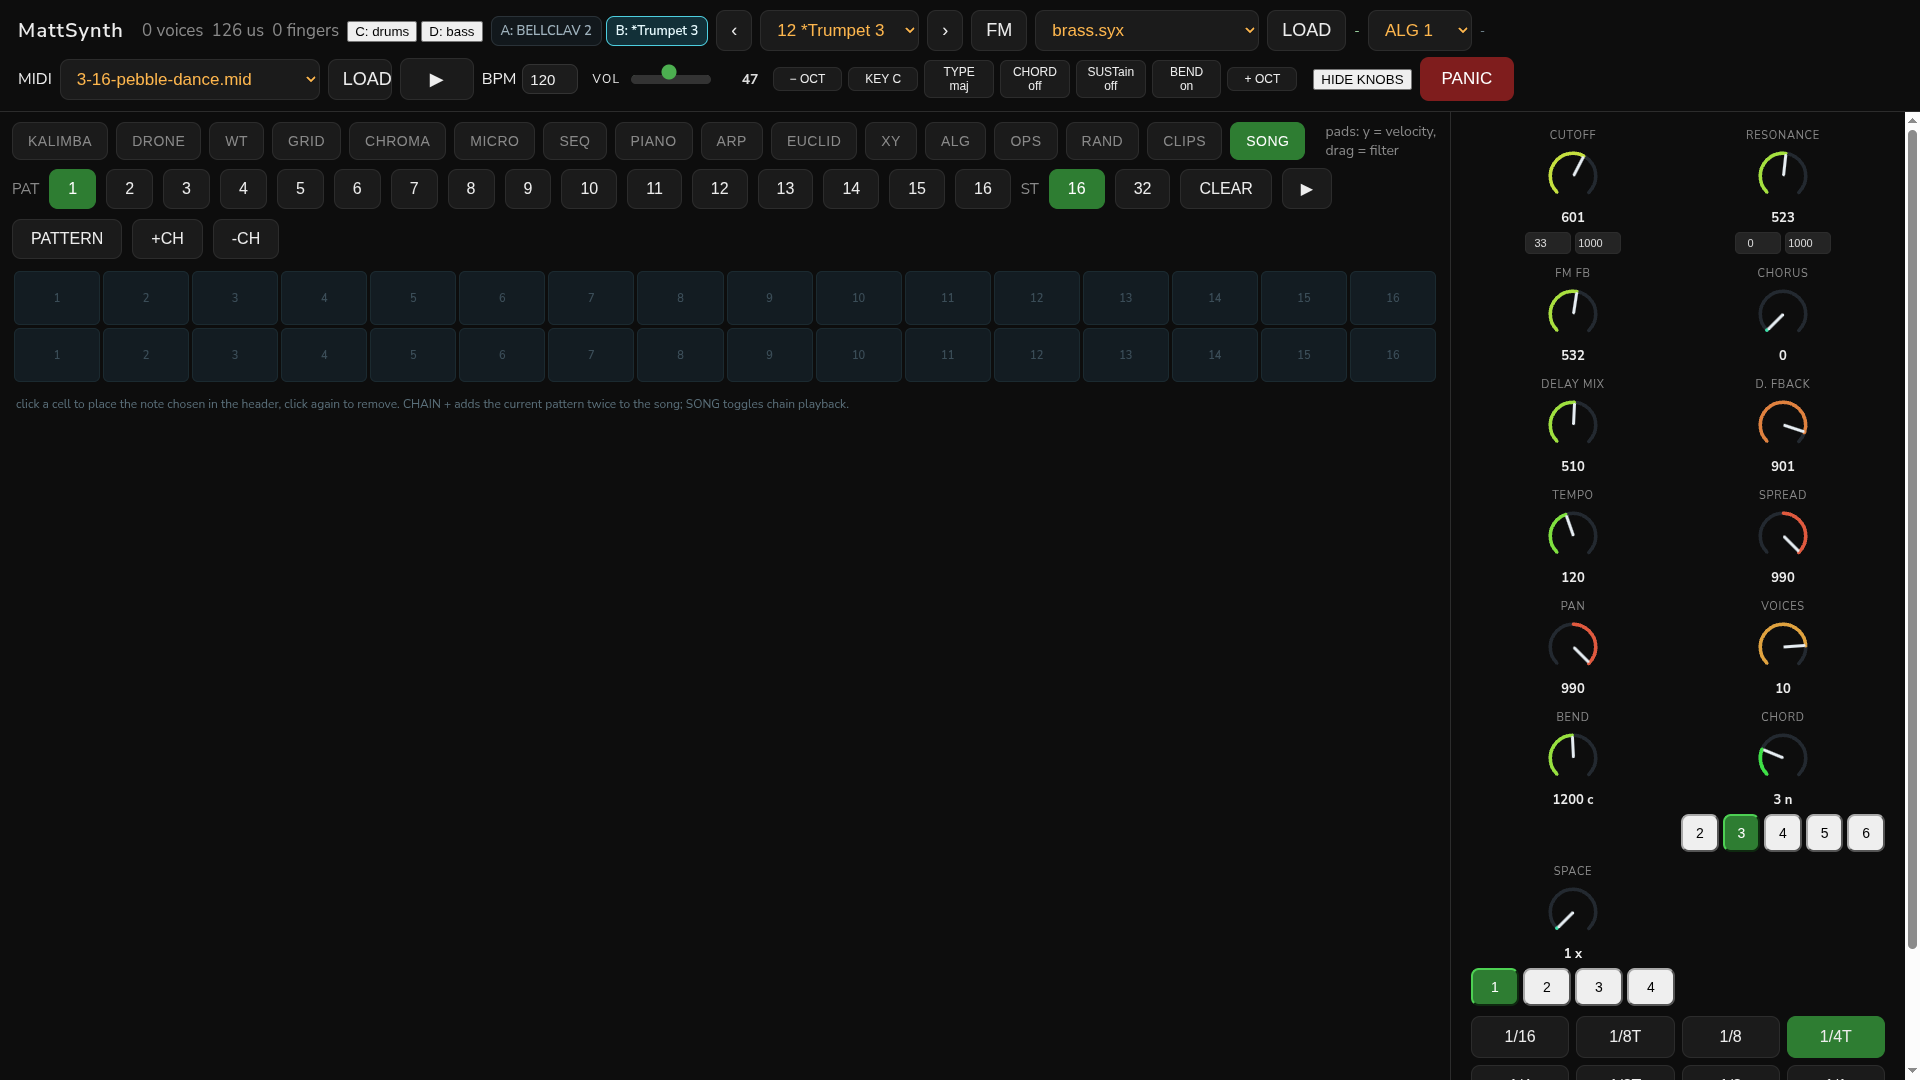
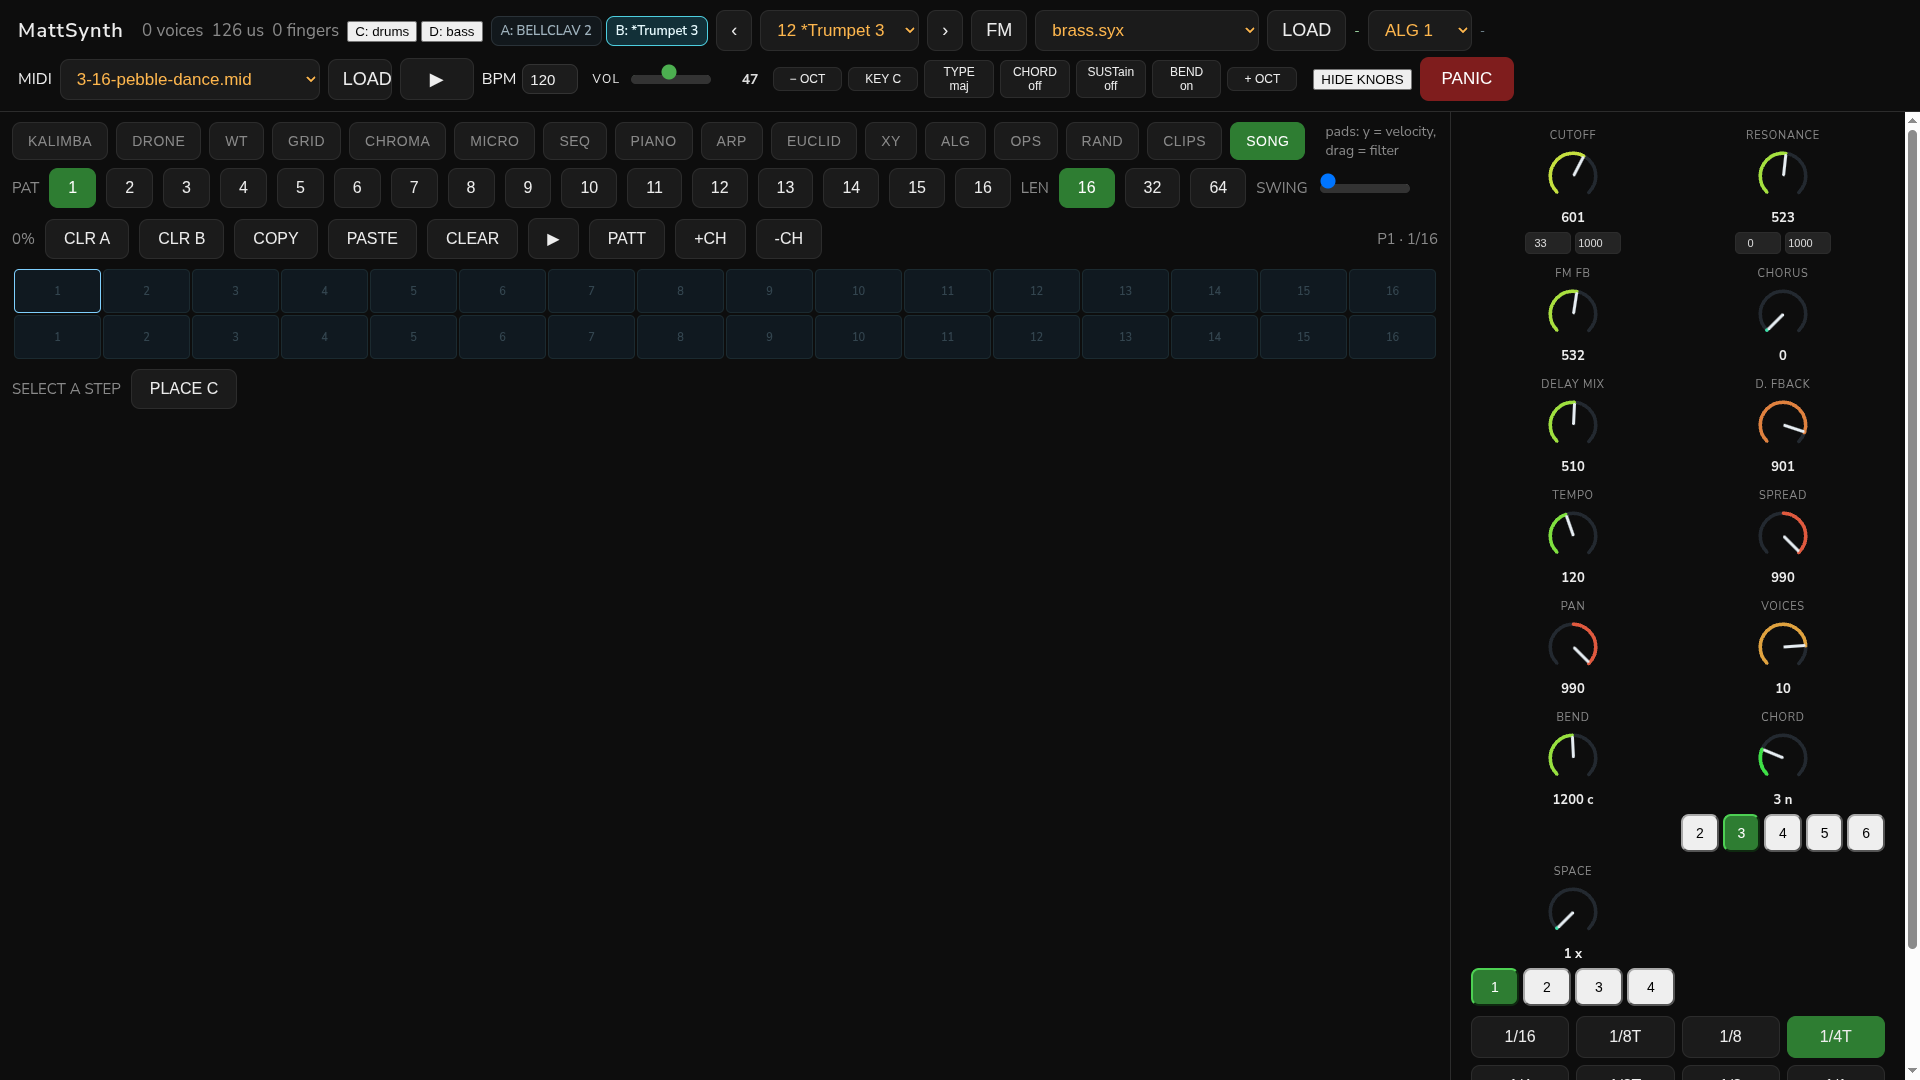
sequencer: step editing, swing, longer patterns, chain repeats and per part editing
A selected step gets its own editor: note up and down, velocity, length, delete. The
pattern can be 16, 32 or 64 sixteenths, carries a swing percentage that delays every
other step, and either part can be cleared or copied and pasted on its own. The chain
entries are clickable and their repeat count is adjustable, and the bar shows the
current pattern and step.

diff --git a/panel/panel_ui.py b/panel/panel_ui.py
@@ -4433,10 +4433,11 @@ function hexGrid(container){
    16 or 32 sixteenths per part, a song is a chain of patterns, and everything is sent
    with a 40 ms lookahead so a slow frame cannot make the groove limp. */
 const sq = { pats: [], cur: 0, song: [], songOn: false, playing: false,
-             step: 0, pat: 0, rep: 0, t0: 0, nxt: 0, timer: null, held: [] };
+             step: 0, pat: 0, rep: 0, t0: 0, nxt: 0, timer: null, held: [],
+             sel: { s: 0, part: 0 }, clip: null, chainSel: 0 };
 
 function sqPat(i){
-  while(sq.pats.length <= i) sq.pats.push({ len: 16, ev: [] });
+  while(sq.pats.length <= i) sq.pats.push({ len: 16, ev: [], swing: 0 });
   return sq.pats[i];
 }
 sqPat(0);
@@ -4477,7 +4478,9 @@ function sqTick(){
         }
       }
     }
-    sq.nxt += ms;
+    /* swing: push the off sixteenths late by the pattern's percentage */
+    const sw = (sqPat(p).swing || 0) / 100;
+    sq.nxt += ms + (sq.step % 2 ? 0 : sw * ms);
   }
   if(view === "song") paintSongPlayhead();
 }
@@ -4506,87 +4509,152 @@ function paintSongPlayhead(){
   });
 }
 
+function sqSelEv(){
+  const p = sqPat(sq.cur);
+  return p.ev.find(e=> e.s === sq.sel.s && (e.part || 0) === sq.sel.part) || null;
+}
+
 function buildSong(){
   const v = document.getElementById("view");
   v.innerHTML = "";
   const wrap = document.createElement("div");
-  wrap.id = "song"; wrap.style.cssText = "display:flex;flex-direction:column;gap:8px;flex:1 1 auto;min-height:0;";
-  const bar = document.createElement("div"); bar.className = "seqbar";
-  bar.style.flexWrap = "wrap";
-
+  wrap.id = "song";
+  wrap.style.cssText = "display:flex;flex-direction:column;gap:8px;flex:1 1 auto;min-height:0;";
+  const bar = document.createElement("div"); bar.className = "seqbar"; bar.style.flexWrap = "wrap";
   const lab = (t)=>{ const s = document.createElement("span"); s.className="lab"; s.textContent=t; return s; };
+  const btn = (t, on, fn)=>{ const b = document.createElement("button"); b.textContent = t;
+                             if(on) b.classList.add("on"); b.onclick = fn; bar.appendChild(b); return b; };
 
+  const pat = sqPat(sq.cur);
   bar.appendChild(lab("PAT"));
-  for(let i = 0; i < 16; i++){
-    const b = document.createElement("button");
-    b.textContent = String(i + 1);
-    if(i === sq.cur) b.classList.add("on");
-    b.onclick = ()=>{ sq.cur = i; buildSong(); };
+  for(let i2 = 0; i2 < 16; i2++){
+    const b = document.createElement("button"); b.textContent = String(i2 + 1);
+    if(i2 === sq.cur) b.classList.add("on");
+    b.onclick = ()=>{ sq.cur = i2; buildSong(); };
     bar.appendChild(b);
   }
-  bar.appendChild(lab("ST"));
-  [16, 32].forEach(n=>{
-    const b = document.createElement("button");
-    b.textContent = n;
-    if(sqPat(sq.cur).len === n) b.classList.add("on");
-    b.onclick = ()=>{ sqPat(sq.cur).len = n; buildSong(); saveState(); };
-    bar.appendChild(b);
+  bar.appendChild(lab("LEN"));
+  [16, 32, 64].forEach(n=>{
+    btn(String(n), pat.len === n, ()=>{ pat.len = n; if(sq.sel.s >= n) sq.sel.s = n - 1; buildSong(); saveState(); });
   });
-  const clr = document.createElement("button"); clr.textContent = "CLEAR";
-  clr.onclick = ()=>{ sqPat(sq.cur).ev = []; buildSong(); saveState(); };
-  bar.appendChild(clr);
+  bar.appendChild(lab("SWING"));
+  const sw = document.createElement("input");
+  sw.type = "range"; sw.min = 0; sw.max = 60; sw.step = 4; sw.value = pat.swing || 0;
+  sw.style.width = "90px"; sw.id = "sqswing";
+  const swl = document.createElement("span"); swl.className = "lab"; swl.textContent = (pat.swing || 0) + "%";
+  sw.oninput = ()=>{ pat.swing = +sw.value; swl.textContent = sw.value + "%"; };
+  sw.onchange = ()=> saveState();
+  bar.appendChild(sw); bar.appendChild(swl);
+
+  btn("CLR A", false, ()=>{ pat.ev = pat.ev.filter(e=> (e.part || 0) !== 0); buildSong(); saveState(); });
+  btn("CLR B", false, ()=>{ pat.ev = pat.ev.filter(e=> (e.part || 0) !== 1); buildSong(); saveState(); });
+  btn("COPY", false, ()=>{ sq.clip = pat.ev.filter(e=> (e.part || 0) === sq.sel.part).map(e=> Object.assign({}, e)); });
+  btn("PASTE", false, ()=>{
+    if(!sq.clip || !sq.clip.length) return;
+    pat.ev = pat.ev.filter(e=> (e.part || 0) !== sq.sel.part).concat(sq.clip.map(e=> Object.assign({}, e)));
+    buildSong(); saveState();
+  });
+  btn("CLEAR", false, ()=>{ pat.ev = []; buildSong(); saveState(); });
+
   const pl = document.createElement("button"); pl.id = "sqplay";
-  pl.textContent = sq.playing ? "■" : "▶";
-  if(sq.playing) pl.classList.add("on");
-  pl.onclick = ()=> sq.playing ? sqStop() : sqPlay();
-  bar.appendChild(pl);
-  const sm = document.createElement("button");
-  sm.textContent = sq.songOn ? "SONG" : "PATTERN";
-  if(sq.songOn) sm.classList.add("on");
-  else sm.classList.remove("on");
-  sm.onclick = ()=>{ sq.songOn = !sq.songOn; buildSong(); saveState(); };
-  bar.appendChild(sm);
-  const add = document.createElement("button"); add.textContent = "+CH";
-  add.onclick = ()=>{ sq.song.push({ p: sq.cur, r: 2 }); buildSong(); saveState(); };
-  bar.appendChild(add);
-  const pop = document.createElement("button"); pop.textContent = "-CH";
-  pop.onclick = ()=>{ sq.song.pop(); buildSong(); saveState(); };
-  bar.appendChild(pop);
-  bar.appendChild(lab(sq.song.map(e=> (e.p + 1) + "x" + (e.r || 1)).join(" ")));
+  pl.textContent = sq.playing ? "\u25a0" : "\u25b6"; if(sq.playing) pl.classList.add("on");
+  pl.onclick = ()=> sq.playing ? sqStop() : sqPlay(); bar.appendChild(pl);
+
+  btn(sq.songOn ? "SONG" : "PATT", sq.songOn, ()=>{ sq.songOn = !sq.songOn; buildSong(); saveState(); });
+  btn("+CH", false, ()=>{ sq.song.push({ p: sq.cur, r: 2 }); buildSong(); saveState(); });
+  btn("-CH", false, ()=>{ sq.song.pop(); buildSong(); saveState(); });
+  const pos = document.createElement("span"); pos.id = "sqpos"; pos.className = "lab";
+  pos.style.marginLeft = "auto";
+  pos.textContent = "P" + (sq.cur + 1) + " \u00b7 " + (sq.step + 1) + "/" + pat.len;
+  bar.appendChild(pos);
   wrap.appendChild(bar);
+
+  if(sq.song.length){
+    const ch = document.createElement("div"); ch.className = "seqbar"; ch.style.flexWrap = "wrap";
+    ch.appendChild(lab("CHAIN"));
+    sq.song.forEach((e, i3)=>{
+      const b = document.createElement("button"); b.textContent = (e.p + 1) + " x" + (e.r || 1);
+      if(i3 === sq.chainSel) b.classList.add("on");
+      b.onclick = ()=>{ sq.chainSel = i3; buildSong(); };
+      ch.appendChild(b);
+    });
+    ch.appendChild(lab("REPS"));
+    const dec = document.createElement("button"); dec.textContent = "\u2212";
+    dec.onclick = ()=>{ const e = sq.song[sq.chainSel]; if(e){ e.r = Math.max(1, (e.r || 1) - 1); buildSong(); saveState(); } };
+    ch.appendChild(dec);
+    const inc = document.createElement("button"); inc.textContent = "+";
+    inc.onclick = ()=>{ const e = sq.song[sq.chainSel]; if(e){ e.r = Math.min(16, (e.r || 1) + 1); buildSong(); saveState(); } };
+    ch.appendChild(inc);
+    wrap.appendChild(ch);
+  }
 
   const grid = document.createElement("div");
   grid.id = "sqgrid";
-  grid.style.cssText = "display:grid;grid-template-columns:repeat(16,1fr);gap:3px;padding:4px 2px;";
-  const len = sqPat(sq.cur).len;
+  grid.style.cssText = "display:grid;grid-template-columns:repeat(" + pat.len + ",1fr);gap:2px;padding:2px;";
   for(let part = 0; part < 2; part++){
-    for(let st = 0; st < len; st++){
+    for(let st = 0; st < pat.len; st++){
       const c = document.createElement("div");
+      const hit = pat.ev.find(e=> e.s === st && (e.part || 0) === part);
+      const sel = sq.sel.s === st && sq.sel.part === part;
       c.className = "sqc";
-      const hit = sqPat(sq.cur).ev.find(e=> e.s === st && (e.part || 0) === part);
       c.dataset.s = st; c.dataset.p = part;
-      c.style.cssText = "height:" + (part ? 54 : 54) + "px;border-radius:6px;display:flex;" +
-        "align-items:center;justify-content:center;font:600 11px system-ui;" +
-        "background:" + (hit ? (part ? "#1d4d3a" : "#2a3f63") : "#131c22") + ";" +
-        "color:" + (hit ? "#cfe9ff" : "#3b4d58") + ";border:1px solid #1b2a30;cursor:pointer;" +
-        "user-select:none;";
-      c.textContent = hit ? NOTE[hit.n % 12] + (hit.n < 60 ? "·" : "") : String(st + 1);
-      c.onclick = ()=>{
-        const p = sqPat(sq.cur);
-        const i = p.ev.findIndex(e=> e.s === st && (e.part || 0) === part);
-        if(i >= 0) p.ev.splice(i, 1);
-        else p.ev.push({ s: st, part: part, n: keySel, v: 100, len: 1 });
-        buildSong(); saveState();
-      };
+      c.style.cssText = "height:44px;border-radius:5px;display:flex;flex-direction:column;" +
+        "align-items:center;justify-content:center;font:600 11px system-ui;cursor:pointer;" +
+        "user-select:none;border:1px solid " + (sel ? "#7fd1ff" : "#1b2a30") + ";" +
+        "background:" + (hit ? (part ? "#1d4d3a" : "#26395c") : "#101920") + ";" +
+        "color:" + (hit ? "#e8f6ff" : "#33454f") + ";";
+      if(hit){
+        c.textContent = NOTE[hit.n % 12] + (Math.floor(hit.n / 12) - 1);
+        const sm = document.createElement("small");
+        sm.style.cssText = "font-size:9px;opacity:.75";
+        sm.textContent = (hit.v || 96) + "\u00b7" + (hit.len || 1);
+        c.appendChild(sm);
+      } else {
+        c.textContent = String(st + 1);
+      }
+      c.onclick = ()=>{ sq.sel = { s: st, part: part }; buildSong(); };
       grid.appendChild(c);
     }
   }
   wrap.appendChild(grid);
-  const hint = document.createElement("div");
-  hint.style.cssText = "color:#5a6f7a;font:12px system-ui;padding:2px 4px;";
-  hint.textContent = "click a cell to place the note chosen in the header, click again to remove. " +
-                     "CHAIN + adds the current pattern twice to the song; SONG toggles chain playback.";
-  wrap.appendChild(hint);
+
+  const ed = document.createElement("div"); ed.className = "seqbar"; ed.style.flexWrap = "wrap";
+  const ev = sqSelEv();
+  ed.appendChild(lab(ev ? "STEP " + (ev.s + 1) + (ev.part ? " B" : " A") : "SELECT A STEP"));
+  if(ev){
+    const nudge = (d)=>{ ev.n = Math.max(12, Math.min(120, ev.n + d)); buildSong(); saveState(); };
+    const nb = document.createElement("button"); nb.textContent = "\u2212"; nb.onclick = ()=> nudge(-1); ed.appendChild(nb);
+    const nl = document.createElement("span"); nl.className = "lab"; nl.style.minWidth = "52px";
+    nl.textContent = NOTE[ev.n % 12] + (Math.floor(ev.n / 12) - 1); ed.appendChild(nl);
+    const pb = document.createElement("button"); pb.textContent = "+"; pb.onclick = ()=> nudge(1); ed.appendChild(pb);
+
+    ed.appendChild(lab("VEL"));
+    const vel = document.createElement("input"); vel.type = "range"; vel.min = 20; vel.max = 127;
+    vel.value = ev.v || 96; vel.style.width = "120px";
+    vel.oninput = ()=>{ ev.v = +vel.value; };
+    vel.onchange = ()=> saveState();
+    ed.appendChild(vel);
+
+    ed.appendChild(lab("LEN"));
+    const ld = document.createElement("button"); ld.textContent = "\u2212";
+    ld.onclick = ()=>{ ev.len = Math.max(1, (ev.len || 1) - 1); buildSong(); saveState(); }; ed.appendChild(ld);
+    const lv = document.createElement("span"); lv.className = "lab"; lv.style.minWidth = "24px";
+    lv.textContent = ev.len || 1; ed.appendChild(lv);
+    const li = document.createElement("button"); li.textContent = "+";
+    li.onclick = ()=>{ ev.len = Math.min(16, (ev.len || 1) + 1); buildSong(); saveState(); }; ed.appendChild(li);
+
+    const del = document.createElement("button"); del.textContent = "DEL";
+    del.onclick = ()=>{ const p2 = sqPat(sq.cur); p2.ev = p2.ev.filter(e=> e !== ev); buildSong(); saveState(); };
+    ed.appendChild(del);
+  } else {
+    const add = document.createElement("button"); add.textContent = "PLACE " + NOTE[keySel % 12];
+    /* the header key is a note class, so place it in the middle octave */
+    const pn = keySel < 12 ? 60 + (keySel | 0) : Math.max(24, Math.min(96, keySel));
+    add.onclick = ()=>{ sqPat(sq.cur).ev.push({ s: sq.sel.s, part: sq.sel.part, n: pn, v: 100, len: 1 });
+                        buildSong(); saveState(); };
+    ed.appendChild(add);
+  }
+  wrap.appendChild(ed);
   v.appendChild(wrap);
   paintSongPlayhead();
 }
